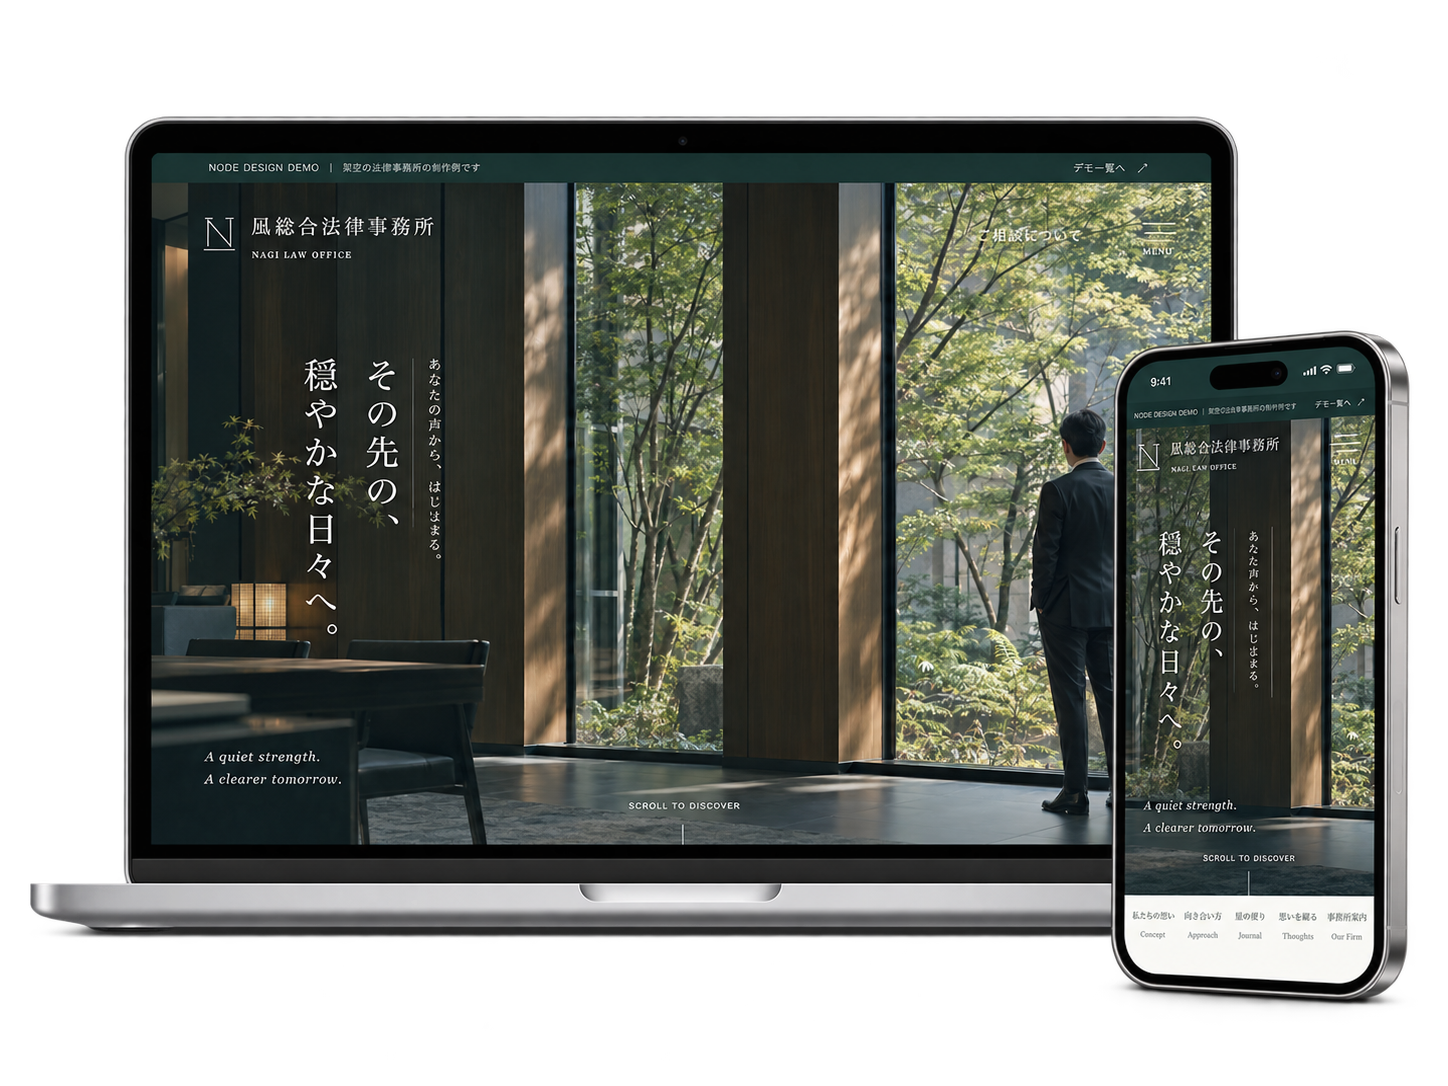
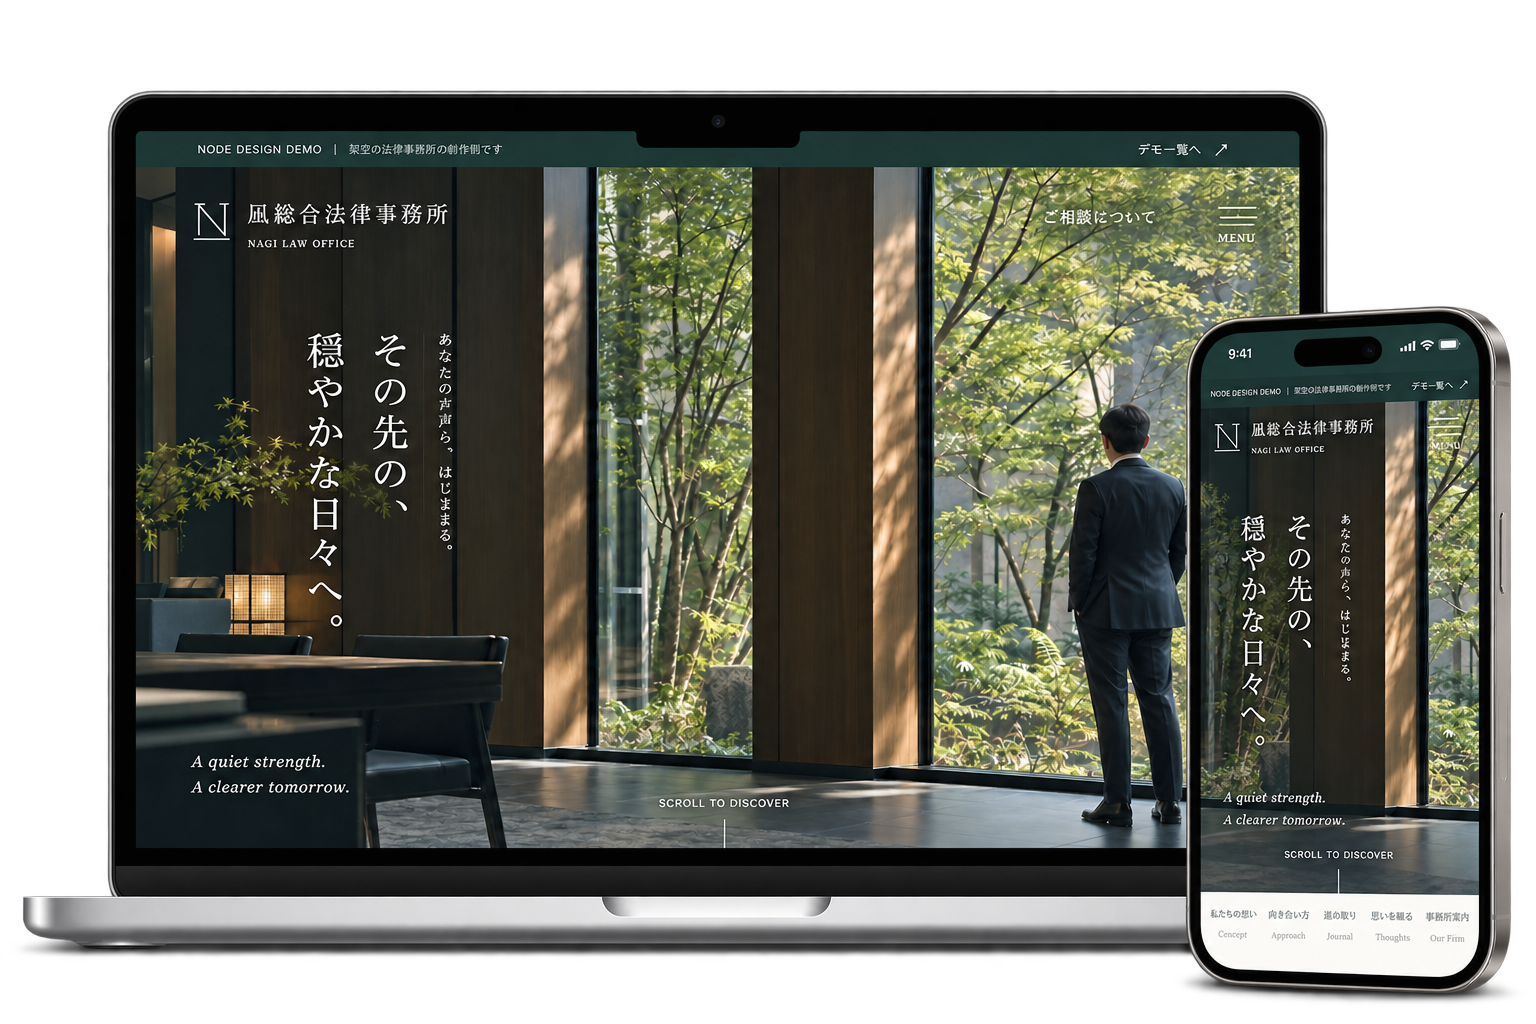
feat: 法律事務所・SaaSデモをデモ一覧に追加し、モックアップ画像を3:2に統一
凪総合法律事務所(nagi-law-demo)とそむり(somuri-demo)をWEBサイト制作の
デモ一覧に掲載。2件のモックアップ画像を既存5件と同じ1536×1024(3:2)の
生成画像に差し替え、スライダー上でカードの高さが揃うようにした。

diff --git a/src/app/(main)/_data/services.ts b/src/app/(main)/_data/services.ts
@@ -188,6 +188,18 @@ export const services: Service[] = [
         image: "/services/web-production/mockups/portfolio-device.png",
         url: "/services/web-production/demo/portfolio/",
       },
+      {
+        title: "法律事務所サンプル",
+        note: "穏やかな信頼感を軸に、事務所の姿勢と相談への導線を伝える法律事務所サイト。",
+        image: "/services/web-production/mockups/nagi-law-device.png",
+        url: "/services/nagi-law-demo/",
+      },
+      {
+        title: "SaaSプロダクトサンプル",
+        note: "人事・労務管理クラウドの機能と導入メリットを、体験導線とともに伝えるプロダクトサイト。",
+        image: "/services/web-production/mockups/somuri-device.png",
+        url: "/services/somuri-demo/",
+      },
     ],
     idealFor: ["サイトを営業・採用に活かしたい", "事業の見せ方から相談したい", "公開後も自社で情報を更新したい"],
     faqs: [
